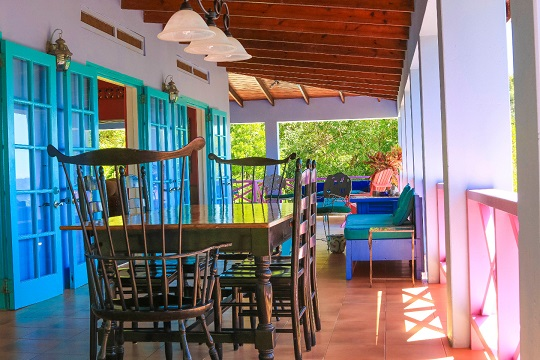
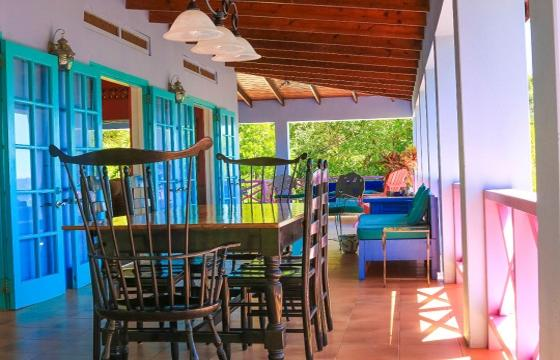
style(gallery): resize images

diff --git a/index.html b/index.html
@@ -4,7 +4,14 @@
 	<title>La Dolce Vita - Bequia Real Estate</title>
 	<meta charset="utf-8">
 	<meta name="La Dolce Vita" content="ladolcevitabequia.com">
-	<meta name="description" content="La dolce vita, spring bequia real estate web page"/>
+	<meta name="author" content="BWEBS">
+	<meta name="description" content="La Dolce Vita, spring bequia, SVG real estate property for sale."/>
+	<meta property="og:locale" content="en_US" />
+	<meta property="og:type" content="website" />
+	<meta property="og:title" content="La Dolce Vita Bequia | Spring, Bequia, SVG property for sale." />
+	<meta property="og:description" content="Enjoy the lovely view of Spring, Bequia from the lower hillside of Spring Estate. La Dolce Vita brings you the sweet life." />
+	<meta property="og:url" content="http://www.ladolcevitabequia.com/" />
+	<meta property="og:site_name" content="La Dolce Vita Bequia | Spring, Bequia, SVG property for sale." />
 	<meta name="viewport" content="width=device-width, initial-scale=1.0, minimum-scale=1.0" />
 	
 	<link rel="stylesheet" type="text/css" href="css/reset.css">

diff --git a/gallery.html b/gallery.html
@@ -4,7 +4,14 @@
 	<title>La Dolce Vita - Bequia Real Estate</title>
 	<meta charset="utf-8">
 	<meta name="La Dolce Vita" content="ladolcevitabequia.com">
-	<meta name="description" content="La dolce vita, spring bequia real estate web page"/>
+	<meta name="author" content="BWEBS">
+	<meta name="description" content="La Dolce Vita, spring bequia, SVG real estate gallery"/>
+	<meta property="og:locale" content="en_US" />
+	<meta property="og:type" content="website" />
+	<meta property="og:title" content="Gallery | La Dolce Vita Bequia | Spring, Bequia, SVG" />
+	<meta property="og:description" content="Enjoy the lovely view of Spring, Bequia from the lower hillside of Spring Estate. La Dolce Vita brings you the sweet life." />
+	<meta property="og:url" content="http://www.ladolcevitabequia.com/" />
+	<meta property="og:site_name" content="Gallery | La Dolce Vita Bequia | Spring, Bequia, SVG" />
 	<meta name="viewport" content="width=device-width, initial-scale=1.0, minimum-scale=1.0" />
 	
 	<link rel="stylesheet" type="text/css" href="css/reset.css">

diff --git a/css/responsive.css b/css/responsive.css
@@ -195,10 +195,11 @@ header{
 
 .floating-box {
   float: left;
-  width: 250px;
-  height: 200px;
+  width: 230px;
+  height: 250px;
   margin: 10px;
   overflow: hidden;
+  box-sizing: content-box;
   border: 3px solid #5385b8;
 }
 
@@ -223,8 +224,6 @@ header{
 .modalContent img{
   margin: auto;
   display: block;
-  width: 70%;
-  max-width: 700px;
   height: -webkit-fill-available;
 }
 
@@ -372,6 +371,7 @@ footer .copyrights a.ph_link{
   .hero{
     height: 800px;
   }
+
 }
 
 
